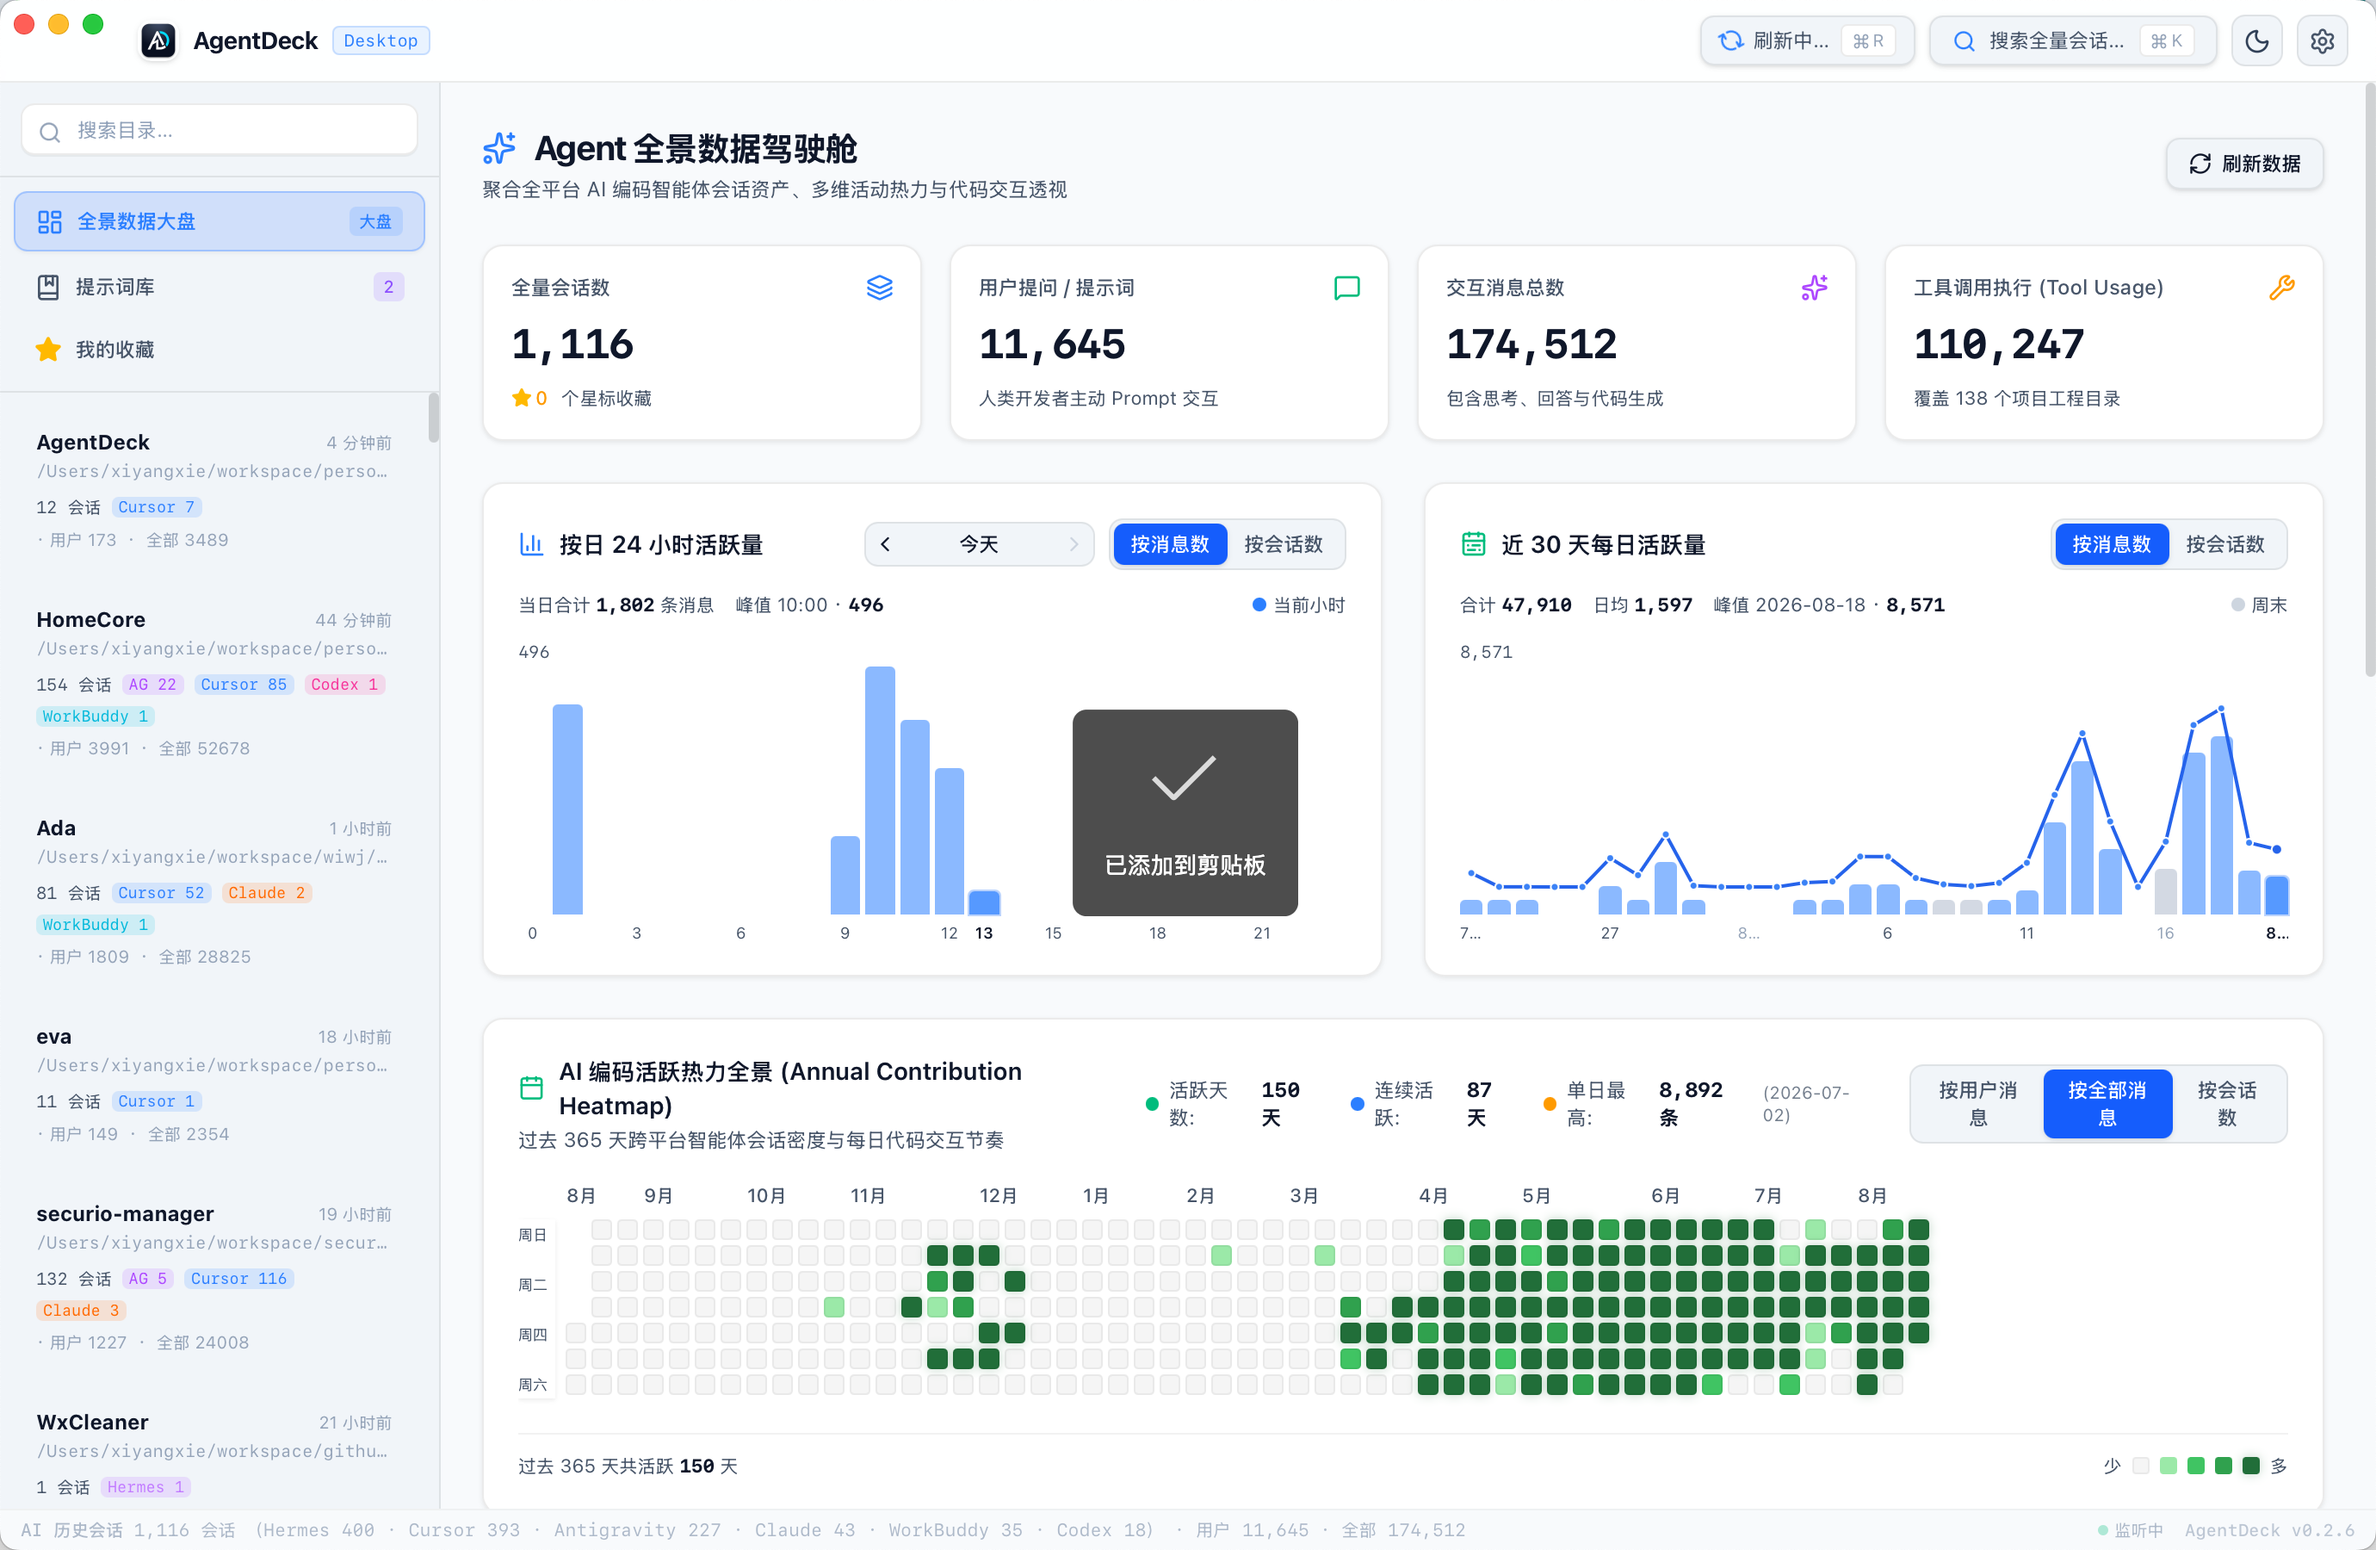
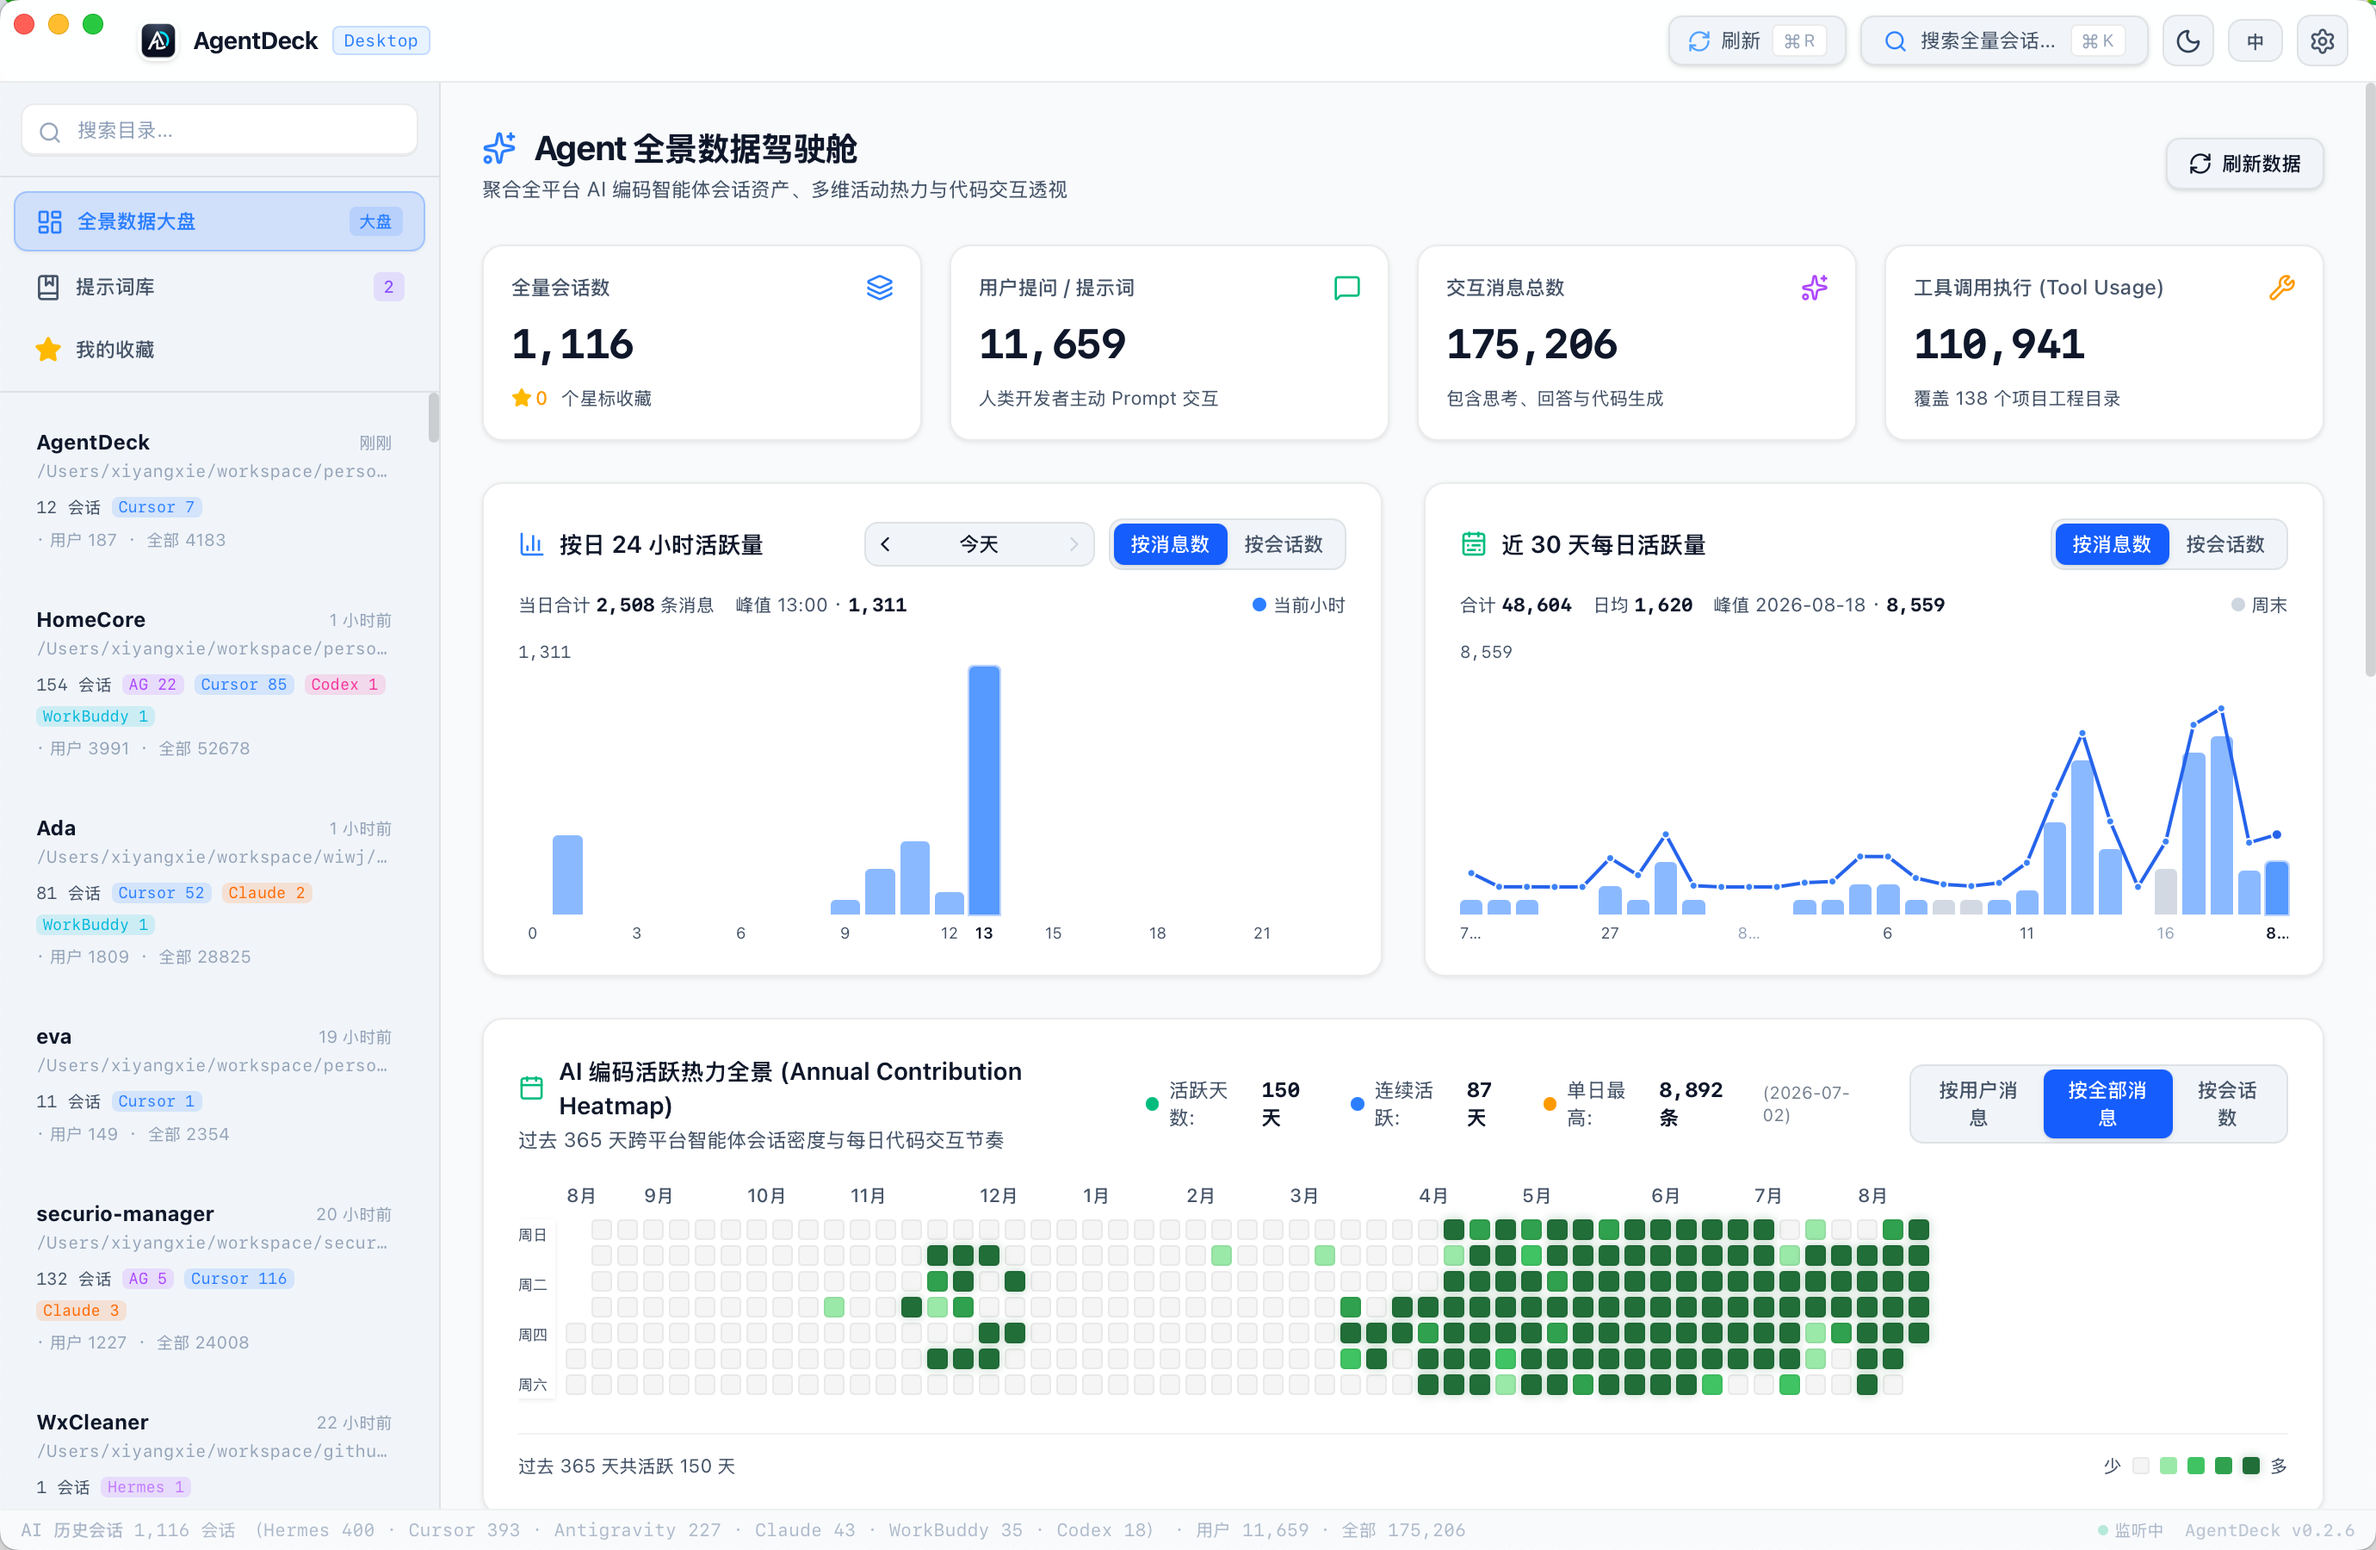
docs: align README and release workflow for macOS 14+ only

diff --git a/README.md b/README.md
@@ -2,7 +2,7 @@
 
 [![License](https://img.shields.io/github/license/lepfinder/AgentDeck?style=flat-square)](LICENSE)
 [![Release](https://img.shields.io/github/v/release/lepfinder/AgentDeck?style=flat-square)](https://github.com/lepfinder/AgentDeck/releases/latest)
-[![Platform](https://img.shields.io/badge/platform-macOS%20%7C%20Windows%20%7C%20Linux-lightgrey?style=flat-square)](https://github.com/lepfinder/AgentDeck/releases/latest)
+[![Platform](https://img.shields.io/badge/platform-macOS%2014%2B-007AFF?style=flat-square)](https://github.com/lepfinder/AgentDeck/releases/latest)
 [![Downloads](https://img.shields.io/github/downloads/lepfinder/AgentDeck/total?style=flat-square)](https://github.com/lepfinder/AgentDeck/releases)
 [![Stars](https://img.shields.io/github/stars/lepfinder/AgentDeck?style=flat-square)](https://github.com/lepfinder/AgentDeck/stargazers)
 [![CI](https://img.shields.io/github/actions/workflow/status/lepfinder/AgentDeck/ci.yml?branch=main&label=CI&style=flat-square)](https://github.com/lepfinder/AgentDeck/actions/workflows/ci.yml)
@@ -96,9 +96,9 @@ The app is ad-hoc signed. macOS Gatekeeper may block the first launch: **right-c
 xattr -d com.apple.quarantine /Applications/AgentDeck.app
 ```
 
-### Windows / Linux
+**Requirements:** macOS 14+ (Apple Silicon or Intel build below)
 
-Grab the `.exe` / `.msi`, or `.AppImage` / `.deb` / `.rpm` from Releases.
+Prefer building locally? See [Quick Start](#quick-start).
 
 ---
 
@@ -108,9 +108,10 @@ Grab the `.exe` / `.msi`, or `.AppImage` / `.deb` / `.rpm` from Releases.
 
 | Tool | Notes |
 |---|---|
+| macOS | 14+ (Apple Silicon or Intel) |
 | Node.js | 18+ recommended |
 | Rust | Stable toolchain + Tauri 2 system deps |
-| macOS | Xcode Command Line Tools |
+| Xcode | Command Line Tools |
 
 ### Run from source
 
@@ -142,7 +143,7 @@ Also update `CHANGELOG.md`. The build runs `npm run generate:api-docs` to refres
 
 ### Publish a release (maintainers)
 
-Pushing a **`v*`** tag triggers [`.github/workflows/release.yml`](.github/workflows/release.yml) to build macOS (Apple Silicon + Intel), Windows, and Linux packages and create a GitHub Release with install notes (including the macOS `xattr` command).
+Pushing a **`v*`** tag triggers [`.github/workflows/release.yml`](.github/workflows/release.yml) to build macOS packages (Apple Silicon + Intel) and create a GitHub Release with install notes (including the macOS `xattr` command).
 
 ```bash
 # 1. Bump version in package.json, src-tauri/Cargo.toml, src-tauri/tauri.conf.json
